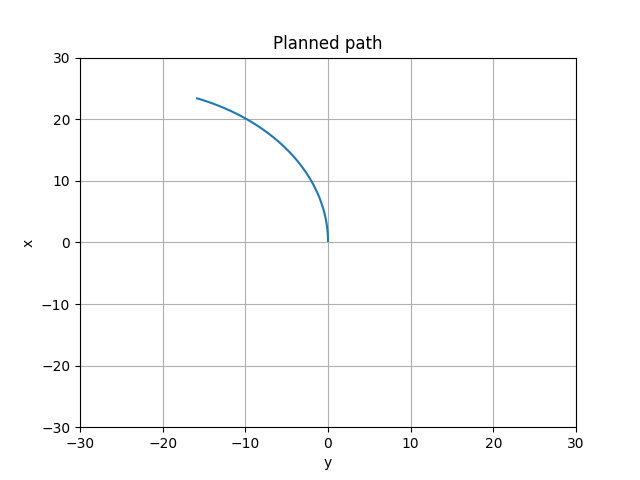
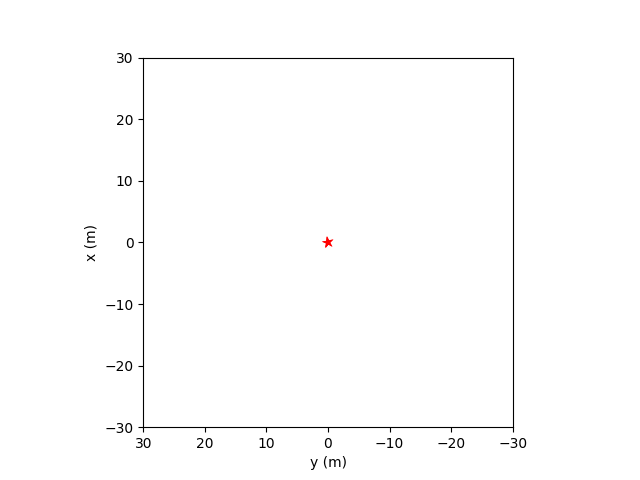
WIP cmd vs actual trajectory

diff --git a/drive/model_training/data_utils/figure_6_2.py b/drive/model_training/data_utils/figure_6_2.py
@@ -2,13 +2,18 @@ import numpy as np
 import pandas as pd
 import matplotlib.pyplot as plt
 from scipy.spatial.transform import Rotation as R
+import os
 
 NBR_STEPS = 120
 TIME_DELTA = 0.05
 PATH_DATAFRAME = "drive_datasets/results_multiple_terrain_dataframe/filtered_cleared_path_warthog_max_lin_speed_all_speed_all_terrain_steady_state_dataset.pkl"
+INDEX_LIST_TO_PLOT = [2, 3, 12, 20, 25, 30, 35, 41, 47, 122]
+# Create a list of colors to plot the paths of the robot from the inferno colormap of equal length to the index list
+COLOR_LIST_TO_PLOT = plt.cm.inferno(np.linspace(0, 1, len(INDEX_LIST_TO_PLOT)))
+RANGE_LIMIT = 20
 
 class Command:
-    def __init__(self, cmd_vel, cmd_angle, delta_s, step_nb):
+    def __init__(self, cmd_vel, cmd_angle, delta_s, step_nb, initial_pose=[0.0, 0.0, 0.0]):
         self.cmd_vel = cmd_vel
         self.cmd_angle = cmd_angle
         self.delta_s = delta_s
@@ -22,6 +27,61 @@ class Command:
         self.cmd_matrix[1, 0] = np.sin(delta_z_dot)
         self.cmd_matrix[1, 1] = np.cos(delta_z_dot)
         self.cmd_matrix[0, 2] = delta_x
+        self.initial_pose = np.array(initial_pose)
+
+
+def extracts_appropriate_columns(df,commun_name):
+    df_columns = list(df.columns)
+    possible_number = ["1","2","3","4","5","6","7","8","9","0"]
+
+    for i,column in enumerate(df_columns):
+        if column[-1] in possible_number:
+            if column[-2] in possible_number:
+                df_columns[i] = column[:-3]
+                if column[-3] in possible_number:
+                    df_columns[i] = column[:-4]
+            else:
+                df_columns[i] = column[:-2]
+
+    df_columns_name = pd.Series(df_columns)
+    mask = [name == commun_name for name in df_columns_name ]
+    kept_column = df.columns[mask]
+
+    return df[kept_column]
+
+
+def column_type_extractor(df, common_type,
+                        transient_state=True,steady_state=True, verbose=False):
+    """ Extract the np.matrix that represent the 40 columns of all steps of the 
+    specific type. 
+    column_type_extractor
+    For example, icp_velx_40 is of the type icp_velx 
+    
+    """
+    local_df = df.copy()
+    if transient_state==False and steady_state==True:
+        mask = local_df.steady_state_mask == 1
+        local_df = local_df.loc[mask]
+    elif steady_state == False and transient_state == True:
+        mask = local_df.steady_state_mask == 0
+        local_df = local_df.loc[mask]
+    elif steady_state == False and transient_state == False:
+        raise ValueError("Both steady state and transient can not be at false")
+    
+    local_df = extracts_appropriate_columns(pd.DataFrame(local_df),common_type)
+    np_results = local_df.to_numpy().astype('float')
+
+    if verbose == True:
+        message = "_"*8+f"{common_type}"+"_"*8
+        print(message)
+        print(f"The column type: {common_type}")
+        print(f"The resulting dataframe_shape: {np_results.shape}")
+        print(f"Number of calibrating steps:{np_results.shape[0]}")
+        print(f"Number of measurement by step: {np_results.shape[1]}")
+        print(f"Maximum {np.max(np_results)}")
+        print(f"Minimum {np.min(np_results)}")
+        print("_"*len(message))
+    return np_results
 
 
 def process_path(cmd : Command):
@@ -30,66 +90,198 @@ def process_path(cmd : Command):
     for i in range (cmd.step_nb):
         matrice_pose_init = matrice_pose_init @ cmd.cmd_matrix
         theta_z = np.arctan2(matrice_pose_init[1, 0], matrice_pose_init[0, 0])
-        rot = R.from_euler('zyx', [theta_z, 0.0, 0.0])
-        quat = rot.as_quat()
         # [x, y, yaw]
-        planned_path.append([matrice_pose_init[0, 2], matrice_pose_init[1, 2], quat[2]])
+        planned_path.append([matrice_pose_init[0, 2], matrice_pose_init[1, 2], theta_z])
     return planned_path
 
 
-def draw_path(ax, cmd, limits):
+def setup_axis(ax, limits):
+    ax.set_xlabel("y (m)")
+    ax.set_ylabel("x (m)")
+    ax.set_xlim(limits, -limits)
+    ax.set_ylim(-limits, limits)
+    ax.set_aspect('equal')
+
+
+def draw_path(ax, limits, path, color='b'):
+    setup_axis(ax, limits)
+    path = np.array(path)
+    # Plot the positions of the robot as a scatter plot
+    #ax.scatter(path[:, 1], path[:, 0], color=color, label='Robot position')
+    # Find the u,v vectors of the orientation using the yaw angle
+    u = np.cos(path[:, 2])
+    v = np.sin(path[:, 2])
+    # Plot the orientation of the robot as a quiver plot with only 1 point out of 10
+    ax.quiver(path[::10, 1], path[::10, 0], v[::10], u[::10], angles='xy', scale_units='xy', scale=1, color=color, label='Robot pose')
+
+
+def draw_path_from_command(ax, limits, cmd, color='r'):
     planned_path = process_path(cmd)
     planned_path = np.array(planned_path)
-    ax.plot(-planned_path[:, 1], planned_path[:, 0])
-    ax.set_xlabel("y")
-    ax.set_ylabel("x")
-    ax.set_title("Planned path")
-    ax.set_xlim(-limits, limits)
-    ax.set_ylim(-limits, limits)
-    ax.grid()
+    draw_path(ax, limits, planned_path, color)
 
 
-def plot_dataframe(df):
+def extract_data_from_dataframe(df):
+    data_dict = {}
+    data_dict["cmd_vel_x"] = df['cmd_body_x_lwmean'].values
+    data_dict["cmd_vel_yaw"] = df['cmd_body_yaw_lwmean'].values
+    data_dict["max_lin_speed"] = df['max_linear_speed_sampled'].values
+    data_dict["icp_x"] = column_type_extractor(df, "step_frame_interpolated_icp_x")
+    data_dict["icp_y"] = column_type_extractor(df, "step_frame_interpolated_icp_y")
+    data_dict["icp_yaw"] = column_type_extractor(df, "step_frame_interpolated_icp_yaw")
+    data_dict["init_tf_x"] = df['init_tf_pose_x'].values
+    data_dict["init_tf_y"] = df['init_tf_pose_y'].values
+    data_dict["init_tf_yaw"] = df['init_tf_pose_yaw'].values
+    return data_dict
+
+
+def plot_dataframe(df, range_limit=RANGE_LIMIT):
     # Find every terrain in the dataframe
     terrains = df['terrain'].unique()
     for terrain in terrains:
+        # Create a subfolder for the terrain if it does not exist with all the subfolders
+        os.makedirs(f"tests_figures/{terrain}/planned_path", exist_ok=True)
+        os.makedirs(f"tests_figures/{terrain}/executed_path", exist_ok=True)
+        os.makedirs(f"tests_figures/{terrain}/combined_path", exist_ok=True)
         # Filter the dataframe to keep only the rows corresponding to the current terrain
         df_terrain = df[df['terrain'] == terrain]
         # Read the number of rows in the dataframe to get the number of commands
         cmd_nbr = df_terrain.shape[0]
-        # Create a square grid of subplots to display the path of the robot for each command
-        row_nbr = int(np.ceil(np.sqrt(cmd_nbr)))
-        col_nbr = int(np.ceil(np.sqrt(cmd_nbr)))
-        fig, axs = plt.subplots(row_nbr, col_nbr, figsize=(20, 20))
-        list_cmd_vel = df_terrain['cmd_body_x_lwmean'].values
-        list_cmd_angle = df_terrain['cmd_body_yaw_lwmean'].values
-        list_max_linear_speed = df_terrain['max_linear_speed_sampled'].values
+
+        # Get the required data from the dataframe
+        data_dict = extract_data_from_dataframe(df_terrain)
+
+        # Final figures for the planned and executed paths
+        fig_final, axs_final = plt.subplots(1, 2)
+
         # Loop over the rows of the dataframe
-        for cmd_vel, cmd_angle, max_linear_speed, i in zip(list_cmd_vel, list_cmd_angle, list_max_linear_speed, range(cmd_nbr)):
+        for cmd_vel, cmd_angle, max_linear_speed, i in zip(data_dict["cmd_vel_x"], data_dict["cmd_vel_yaw"], data_dict["max_lin_speed"], range(cmd_nbr)):
+            # Create a figure for the planned path
+            fig_cmd, axs_cmd = plt.subplots(1, 1)
+            # Create a figure for the executed path
+            fig_icp, axs_icp = plt.subplots(1, 1)
             # Get the command from the dataframe
             cmd = Command(cmd_vel, cmd_angle, TIME_DELTA, NBR_STEPS)
-            range_limit = max_linear_speed * NBR_STEPS * TIME_DELTA
             # Draw the path of the robot
-            draw_path(axs[i//col_nbr, i%col_nbr], cmd, range_limit)
+            draw_path_from_command(axs_cmd, range_limit, cmd)
+            axs_cmd.set_title(f"Command: {cmd_vel} m/s, {cmd_angle} rad/s")
+            # Draw the path of the robot from the ICP data
+            draw_path(axs_icp, range_limit, np.array([data_dict["icp_x"][i,:], data_dict["icp_y"][i,:], data_dict["icp_yaw"][i,:]]).T)
+            axs_icp.set_title(f"Command: {cmd_vel} m/s, {cmd_angle} rad/s")
 
-        # Increase the spacing between the subplots
-        plt.tight_layout()
-        # Save the figure
-        plt.savefig(f"tests_figures/planned_path_{terrain}.png")
+            fig_combined, axs_combined = plt.subplots(1, 1)
+            draw_path_from_command(axs_combined, range_limit, cmd, color='r')
+            draw_path(axs_combined, range_limit, np.array([data_dict["icp_x"][i,:], data_dict["icp_y"][i,:], data_dict["icp_yaw"][i,:]]).T, color='b')
+            axs_combined.set_title(f"Command: {cmd_vel} m/s, {cmd_angle} rad/s")
 
+            # Increase the spacing between the subplots
+            fig_cmd.tight_layout()
+            fig_icp.tight_layout()
+            fig_combined.tight_layout()
+            # Save the figure
+            fig_cmd.savefig(f"tests_figures/{terrain}/planned_path/{i}.png")
+            fig_icp.savefig(f"tests_figures/{terrain}/executed_path/{i}.png")
+            fig_combined.savefig(f"tests_figures/{terrain}/combined_path/{i}.png")
+
+            if i in INDEX_LIST_TO_PLOT:
+                # Plot the planned path
+                draw_path_from_command(axs_final[0], range_limit, cmd, color=COLOR_LIST_TO_PLOT[INDEX_LIST_TO_PLOT.index(i)])
+                draw_path(axs_final[1], range_limit, np.array([data_dict["icp_x"][i,:], data_dict["icp_y"][i,:], data_dict["icp_yaw"][i,:]]).T, color=COLOR_LIST_TO_PLOT[INDEX_LIST_TO_PLOT.index(i)])
+                fig_final.tight_layout()
+
+        # Save the final figures
+        axs_final[0].set_title("Planned paths")
+        axs_final[1].set_title("Executed paths")
+        # Remove the axis labels for the combined figure
+        axs_final[1].set_ylabel("")
+        # Save the final figure with high resolution
+        fig_final.savefig(f"tests_figures/{terrain}/planned_paths.pdf", format='pdf', dpi=600)
+
+
+def plot_relevant_paths(df, range_limit=RANGE_LIMIT):
+    # Find every terrain in the dataframe
+    terrains = df['terrain'].unique()
+    for terrain in terrains:
+        # Create a subfolder for the terrain if it does not exist with all the subfolders
+        os.makedirs(f"tests_figures/{terrain}/planned_path", exist_ok=True)
+        os.makedirs(f"tests_figures/{terrain}/executed_path", exist_ok=True)
+        os.makedirs(f"tests_figures/{terrain}/combined_path", exist_ok=True)
+        # Filter the dataframe to keep only the rows corresponding to the current terrain
+        df_terrain = df[df['terrain'] == terrain]
+        
+        # Get the required data from the dataframe
+        data_dict = extract_data_from_dataframe(df_terrain)
+
+        # Final figures for the planned and executed paths
+        fig_final, axs_final = plt.subplots(1, 2)
+
+        for i in INDEX_LIST_TO_PLOT:
+            # Get the command from the dataframe
+            cmd = Command(data_dict["cmd_vel_x"][i], data_dict["cmd_vel_yaw"][i], TIME_DELTA, NBR_STEPS)
+
+            # Plot the planned path
+            draw_path_from_command(axs_final[0], range_limit, cmd, color=COLOR_LIST_TO_PLOT[INDEX_LIST_TO_PLOT.index(i)])
+            draw_path(axs_final[1], range_limit, np.array([data_dict["icp_x"][i,:], data_dict["icp_y"][i,:], data_dict["icp_yaw"][i,:]]).T, color=COLOR_LIST_TO_PLOT[INDEX_LIST_TO_PLOT.index(i)])
+            fig_final.tight_layout()
+
+        # Add the title to the final figure
+        axs_final[0].set_title("Planned paths")
+        axs_final[1].set_title("Executed paths")
+        # Save the final figure with high resolution
+        fig_final.savefig(f"tests_figures/{terrain}/planned_vs_executed_paths.pdf", format='pdf', dpi=600)
+
+
+def plot_heatmap_world_position(df, range_limit=RANGE_LIMIT):
+    # Find every terrain in the dataframe
+    terrains = df['terrain'].unique()
+    for terrain in terrains:
+        # Create a subfolder for the terrain if it does not exist with all the subfolders
+        os.makedirs(f"tests_figures/{terrain}/planned_path", exist_ok=True)
+        os.makedirs(f"tests_figures/{terrain}/executed_path", exist_ok=True)
+        os.makedirs(f"tests_figures/{terrain}/combined_path", exist_ok=True)
+        # Filter the dataframe to keep only the rows corresponding to the current terrain
+        df_terrain = df[df['terrain'] == terrain]
+
+        # Read the number of rows in the dataframe to get the number of commands
+        cmd_nbr = df_terrain.shape[0]
+
+        # Get the required data from the dataframe
+        data_dict = extract_data_from_dataframe(df_terrain)
+
+        # Final figures for the planned and executed paths
+        fig_final, axs_final = plt.subplots(1, 2)
+
+        # Loop over the rows of the dataframe
+        for cmd_vel, cmd_angle, max_linear_speed, i in zip(data_dict["cmd_vel_x"], data_dict["cmd_vel_yaw"], data_dict["max_lin_speed"], range(cmd_nbr)):
+            # Get the command from the dataframe
+            cmd = Command(cmd_vel, cmd_angle, TIME_DELTA, NBR_STEPS, [data_dict["init_tf_x"][i], data_dict["init_tf_y"][i], data_dict["init_tf_yaw"][i]])
+            
+    return
 
 ### Test the functions
-cmd_vel = 5.0
-cmd_angle = 0.2
-delta_s = 0.05
+cmd_vel = 0.0
+cmd_angle = 5.0
+delta_s = TIME_DELTA
 step_nb = 120
 cmd = Command(cmd_vel, cmd_angle, delta_s, step_nb)
 fig, ax = plt.subplots()    
-draw_path(ax, cmd, 30)
+draw_path_from_command(ax, 30, cmd)
 plt.savefig("tests_figures/planned_path_single.png")
+
 
 # Load the dataframe
 df_all_terrain = pd.read_pickle(PATH_DATAFRAME)
+
+step_frame_interpolated_icp_x = column_type_extractor(df_all_terrain, "step_frame_interpolated_icp_x")
+step_frame_interpolated_icp_y = column_type_extractor(df_all_terrain, "step_frame_interpolated_icp_y")
+step_frame_interpolated_icp_yaw = column_type_extractor(df_all_terrain, "step_frame_interpolated_icp_yaw")
+
+fig, ax = plt.subplots()
+draw_path(ax, 30, np.array([step_frame_interpolated_icp_x[0,:], step_frame_interpolated_icp_y[0,:], step_frame_interpolated_icp_yaw[0,:]]).T)
+plt.savefig("tests_figures/planned_path_interpolated.png")
+
 # Plot the path of the robot for each command in the dataframe
-plot_dataframe(df_all_terrain)
-plt.savefig("tests_figures/planned_path_multiple.png")
+#plot_dataframe(df_all_terrain)
+
+# Plot the relevant paths for the figure
+plot_relevant_paths(df_all_terrain)
